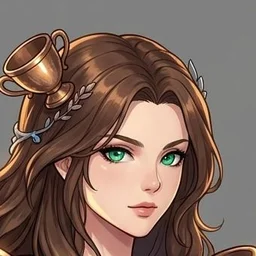
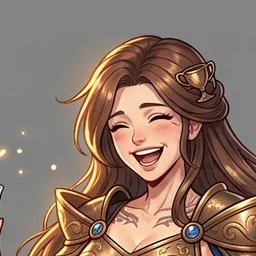
Illustrations du Fourneau (deux au choix), du Burin, d'Ophiuchus et nouvelle Coupe ; images carrées remises au format vertical sans rognage ; choix de l'illustration sur la fiche

diff --git a/src/core/data/art-list.js b/src/core/data/art-list.js
@@ -1,2 +1,2 @@
 /* Images générées et branchées par scripts/integrate-images.mjs (ne pas modifier à la main). */
-export const PAINTED=new Set(["armure-argent-air","armure-argent-eau","armure-argent-feu","armure-argent-terre","armure-bronze-air","armure-bronze-eau","armure-bronze-feu","armure-bronze-terre","armure-or-balance","armure-or-belier","armure-or-cancer","armure-or-capricorne","armure-or-gemeaux","armure-or-lion","armure-or-poissons","armure-or-sagittaire","armure-or-scorpion","armure-or-taureau","armure-or-verseau","armure-or-vierge","perso-argent-air-F","perso-argent-air-M","perso-argent-eau-F","perso-argent-eau-M","perso-argent-feu-F","perso-argent-feu-M","perso-argent-terre-F","perso-argent-terre-M","perso-bronze-air-F","perso-bronze-air-M","perso-bronze-eau-F","perso-bronze-eau-M","perso-bronze-feu-F","perso-bronze-feu-M","perso-bronze-terre-F","perso-bronze-terre-M","perso-cons-coupe-F","perso-cons-grue-F","perso-cons-oiseau-paradis-F","perso-cons-petit-cheval-M","perso-or-balance-F","perso-or-balance-M","perso-or-belier-F","perso-or-belier-M","perso-or-cancer-F","perso-or-cancer-M","perso-or-capricorne-F","perso-or-capricorne-M","perso-or-gemeaux-F","perso-or-gemeaux-M","perso-or-lion-F","perso-or-lion-M","perso-or-poissons-F","perso-or-poissons-M","perso-or-sagittaire-F","perso-or-sagittaire-M","perso-or-scorpion-F","perso-or-scorpion-M","perso-or-taureau-F","perso-or-taureau-M","perso-or-verseau-F","perso-or-verseau-M","perso-or-vierge-F","perso-or-vierge-M"]);
+export const PAINTED=new Set(["armure-argent-air","armure-argent-eau","armure-argent-feu","armure-argent-terre","armure-bronze-air","armure-bronze-eau","armure-bronze-feu","armure-bronze-terre","armure-or-balance","armure-or-belier","armure-or-cancer","armure-or-capricorne","armure-or-gemeaux","armure-or-lion","armure-or-poissons","armure-or-sagittaire","armure-or-scorpion","armure-or-taureau","armure-or-verseau","armure-or-vierge","perso-argent-air-F","perso-argent-air-M","perso-argent-eau-F","perso-argent-eau-M","perso-argent-feu-F","perso-argent-feu-M","perso-argent-terre-F","perso-argent-terre-M","perso-bronze-air-F","perso-bronze-air-M","perso-bronze-eau-F","perso-bronze-eau-M","perso-bronze-feu-F","perso-bronze-feu-M","perso-bronze-terre-F","perso-bronze-terre-M","perso-cons-burin-M","perso-cons-coupe-F","perso-cons-fourneau-F","perso-cons-fourneau-F2","perso-cons-grue-F","perso-cons-oiseau-paradis-F","perso-cons-ophiuchus-F","perso-cons-petit-cheval-M","perso-or-balance-F","perso-or-balance-M","perso-or-belier-F","perso-or-belier-M","perso-or-cancer-F","perso-or-cancer-M","perso-or-capricorne-F","perso-or-capricorne-M","perso-or-gemeaux-F","perso-or-gemeaux-M","perso-or-lion-F","perso-or-lion-M","perso-or-poissons-F","perso-or-poissons-M","perso-or-sagittaire-F","perso-or-sagittaire-M","perso-or-scorpion-F","perso-or-scorpion-M","perso-or-taureau-F","perso-or-taureau-M","perso-or-verseau-F","perso-or-verseau-M","perso-or-vierge-F","perso-or-vierge-M"]);

diff --git a/src/ui/app.js b/src/ui/app.js
@@ -1,6 +1,6 @@
 /* Interface : onglets, fiches, fenêtres et actions du joueur. */
 import { looks } from '../core/appearance.js';
-import { SANCT_VIEWS, armorImg, goldArt } from '../core/data/art.js';
+import { SANCT_VIEWS, armorImg, goldArt, paintedVariants } from '../core/data/art.js';
 import { ARTEFACTS, ART_BY, CARD_BY, EFF_N, UNLOCK_N, effText } from '../core/data/cards.js';
 import { NATS } from '../core/data/countries.js';
 import { ARMOR_COST, ARMOR_FORGE, ARMOR_SMITH, ARMOR_WORK, BORDER, BUILD, IKEYS, ITEMS, RECIPES, REC_BY, RES, RKEYS, ROLES, STATN, TOOL_SITES, TRIAL_LV, WORK } from '../core/data/economy.js';
@@ -607,7 +607,8 @@ export function knightModal(id){return()=>{const k=S.knights.find(x=>x.id===id);
   return h+friendBlock(k);
  }
  // Profil : le personnage en pied, ses statistiques, son histoire
- h+='<figure class="fullbody"><img src="'+fullBody(k,k.rank)+'" alt="'+esc(k.name)+' en '+esc(armorLow(c))+'" width="300" height="675"><figcaption>'+esc(armorName(c))+'</figcaption></figure>';
+ const nv=paintedVariants(k).length;
+ h+='<figure class="fullbody"><img src="'+fullBody(k,k.rank)+'" alt="'+esc(k.name)+' en '+esc(armorLow(c))+'" width="300" height="675"><figcaption>'+esc(armorName(c))+'</figcaption>'+(nv>1?'<button class="btn ghost sm" data-act="artv:'+k.id+'">Autre illustration ('+((k.artV||0)%nv+1)+' / '+nv+')</button>':'')+'</figure>';
  h+=radarBox(k)+statsHtml(k,'k')+itemUse(k,'k');
  h+='<div class="hint">Techniques : '+(k.tech.length?k.tech.map(esc).join(' · '):'aucune')+'</div>';
  h+=persoBlock(k);
@@ -724,6 +725,7 @@ export function act(a){
  const [k,x,y,z,w]=a.split(':');
  switch(k){
  case'census':setCensus(x,y);render();return;
+ case'artv':{const kn=S.knights.find(q=>q.id===+x);if(kn)kn.artV=((kn.artV||0)+1)%Math.max(1,paintedVariants(kn).length);break;}
  case'defrm':{const kn=S.knights.find(q=>q.id===+x);if(kn)defAssign(kn,null);break;}
  case'raidnow':{if(S.speed!==60)return;const r=raid();log(r.msg);flash=r.msg;break;}
  case'mission':MP.cur={id:+x,team:[]};openModal(missionModal);return;

diff --git a/src/core/data/art.js b/src/core/data/art.js
@@ -7,10 +7,16 @@ export const SIGN_KEY=['belier','taureau','gemeaux','cancer','lion','vierge','ba
 const armorKey=c=>c.rank==='or'?'or-'+SIGN_KEY[c.sign]:c.rank+'-'+c.el;
 // Chevalier illustré façon gacha (charte v3) : même armure (maison d'or, ou élément pour l'argent et le bronze)
 // et même sexe. Une image n'a qu'un porteur à la fois : le premier chevalier qui y a droit ; les autres gardent le générateur.
-// Une illustration propre à la constellation (perso-cons-coupe-F…) passe avant celle de l'élément : elle va à celui qui porte l'armure.
+// Illustrations propres à la constellation : perso-cons-fourneau-F, puis les variantes F2, F3… au choix du joueur (p.artV).
+export function paintedVariants(p){
+ if(!p||!p.cons||!p.sex)return[];const own='perso-cons-'+p.cons+'-'+p.sex,out=[];
+ for(let i=1;i<10;i++){const k=i===1?own:own+i;if(PAINTED.has(k))out.push(k);}
+ return out;
+}
+// Une illustration propre à la constellation passe avant celle de l'élément : elle va à celui qui porte l'armure.
 export function paintedOf(p){
  const c=p&&p.cons&&CONS_BY[p.cons];if(!c||!S||!S.knights)return null;
- const own='perso-cons-'+p.cons+'-'+p.sex;if(PAINTED.has(own))return{body:'img/gacha/'+own+'.webp',head:'img/gacha/'+own+'-tete.webp'};
+ const vs=paintedVariants(p);if(vs.length){const own=vs[(p.artV||0)%vs.length];return{body:'img/gacha/'+own+'.webp',head:'img/gacha/'+own+'-tete.webp'};}
  const key='perso-'+armorKey(c)+'-'+p.sex;if(!PAINTED.has(key))return null;
  const first=S.knights.filter(k=>k.sex===p.sex&&k.cons&&CONS_BY[k.cons]&&armorKey(CONS_BY[k.cons])===armorKey(c)).sort((a,b)=>a.id-b.id)[0];
  if(first&&first.id!==p.id)return null;

diff --git a/docs/prompt-gemini.md b/docs/prompt-gemini.md
@@ -9,6 +9,7 @@ C'est la même consigne que celle du script `scripts/generate-images.mjs`, qui a
 3. Coller la consigne ci-dessous, après avoir rempli les passages entre crochets.
 4. Si le personnage est coupé (pieds ou tête hors du cadre), redemander : « Refais-la en montrant le personnage entier, des cheveux jusqu'aux pieds, avec de l'espace autour. »
 5. Enregistrer l'image dans `art/a-integrer/`, sous le nom `perso-cons-<constellation>-<F ou M>.png`, par exemple `perso-cons-lyre-F.png` ou `perso-cons-petit-cheval-M.png`. Le nom de la constellation s'écrit en minuscules, sans accent, avec des tirets.
+   Pour proposer plusieurs illustrations d'une même armure, ajouter un chiffre : `perso-cons-fourneau-F2.png`, `perso-cons-fourneau-F3.png`… Sur la fiche du chevalier, un bouton « Autre illustration » permet alors de choisir.
 6. Dire à Claude « intègre les nouvelles images » : il les réduit, recadre le portrait et les met en ligne.
 
 ## La consigne à copier
